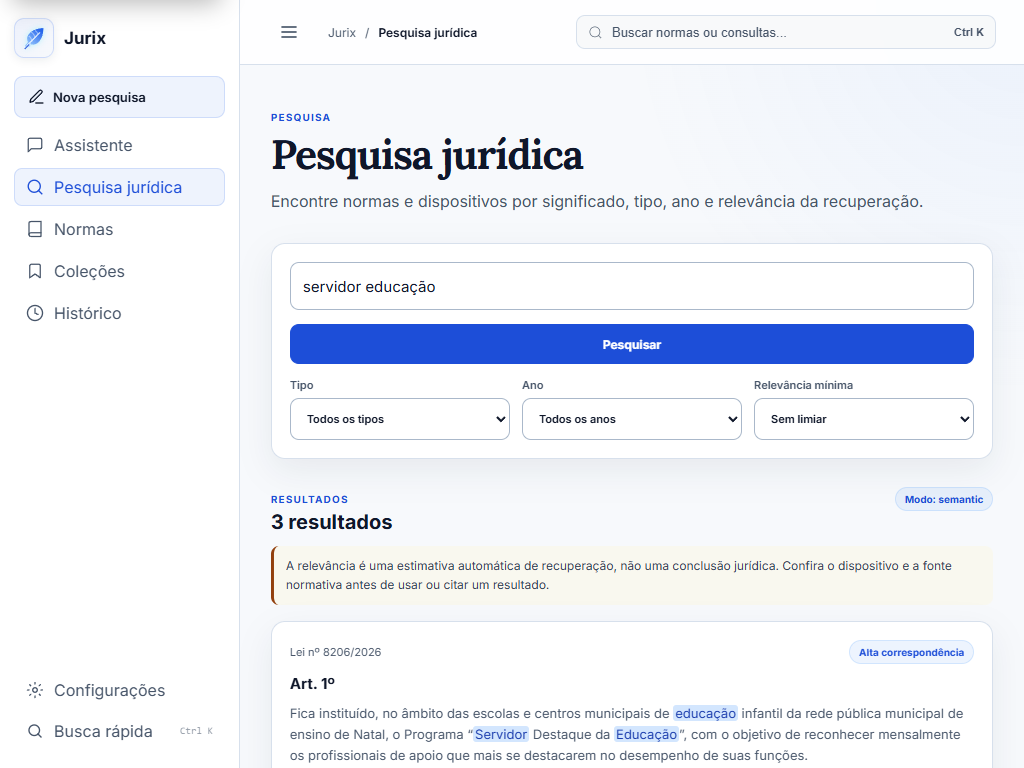
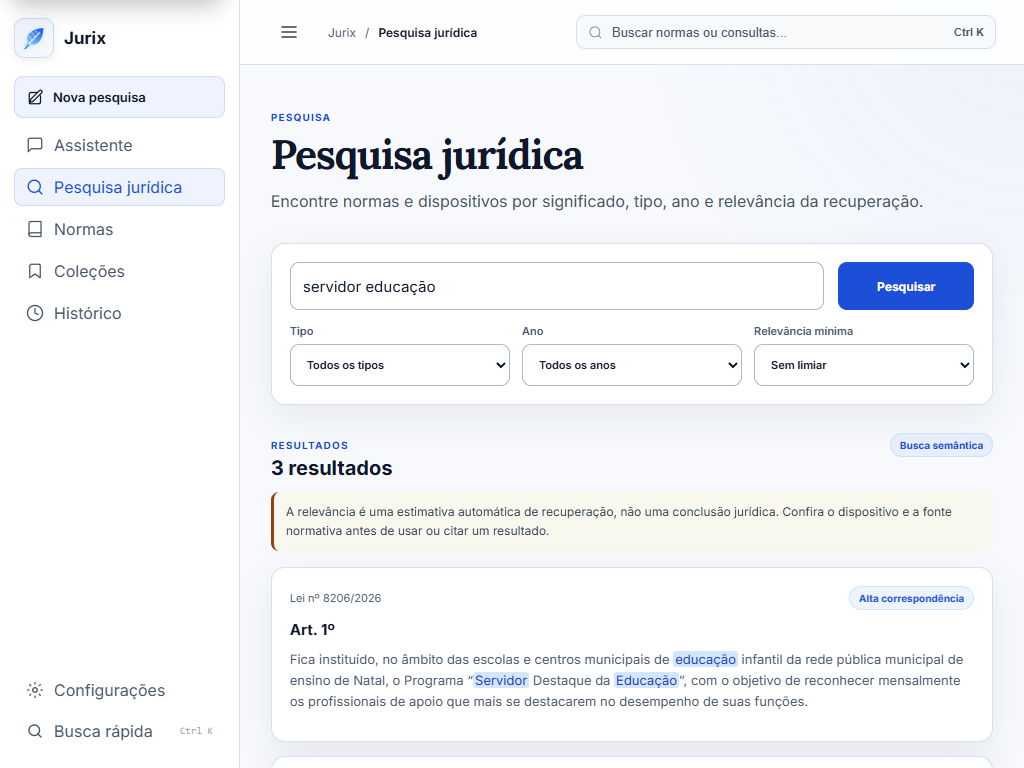
ui(pesquisa): align search flow and keyboard order

Changed region(s): [[0.25, 0.3438, 0.9688, 0.8125], [0.2812, 0.8125, 0.9375, 1.0], [0.8438, 0.5625, 0.9688, 0.5938]]

diff --git a/src/apps/core/static/css/workspace.css b/src/apps/core/static/css/workspace.css
@@ -96,7 +96,10 @@ html[data-sidebar-collapsed="true"] .workspace-nav-item { justify-content: cente
 .workspace-button[aria-disabled="true"] { opacity: .72; cursor: not-allowed; pointer-events: none; }
 .workspace-save-status { color: var(--figma-green); font-size: 12px; }
 .workspace-save-status.is-warning { color: var(--figma-amber-light, #fbbf24); }
-.workspace-search-panel { padding: 18px; display: grid; gap: 14px; margin-bottom: 28px; }
+.workspace-search-panel { grid-template-columns:minmax(0,1fr) auto; padding:18px; display:grid; gap:14px; margin-bottom:28px; }
+.workspace-search-panel .workspace-search-input { grid-column:1; grid-row:1; }
+.workspace-search-panel > .workspace-button { grid-column:2; grid-row:1; min-width:136px; min-height:48px; }
+.workspace-search-panel .workspace-filter-row { grid-column:1 / -1; grid-row:2; }
 .workspace-history-search { display: grid; grid-template-columns: minmax(0,1fr) auto; align-items: end; gap: 12px; max-width: 860px; margin: 0 0 22px; }
 .workspace-history-search .workspace-field { margin: 0; }
 .workspace-history-search input { box-sizing: border-box; width: 100%; min-height: 44px; padding: 0 13px; border: 1px solid var(--figma-border-strong); border-radius: 9px; color: var(--figma-text-white); background: var(--figma-bg-surface); font: inherit; }
@@ -179,6 +182,13 @@ html[data-sidebar-collapsed="true"] .workspace-nav-item { justify-content: cente
 .sr-only { position: absolute; width: 1px; height: 1px; padding: 0; margin: -1px; overflow: hidden; clip: rect(0,0,0,0); white-space: nowrap; border: 0; }
 [data-density="compact"] .workspace-card, [data-density="compact"] .workspace-result-card, [data-density="compact"] .workspace-history-card { padding: 15px; }
 @media (max-width: 900px) { .workspace-shell, html[data-sidebar-collapsed="true"] .workspace-shell { grid-template-columns: 1fr; } .workspace-sidebar { position: fixed; left: 0; top: 0; width: 240px; box-sizing: border-box; transform: translateX(-100%); transition: transform .2s ease; } .workspace-sidebar.is-open { transform: translateX(0); } html[data-sidebar-collapsed="true"] .workspace-sidebar { padding-inline: 14px; } html[data-sidebar-collapsed="true"] .workspace-brand-block { justify-items: stretch; } html[data-sidebar-collapsed="true"] .workspace-brand > span:not(.workspace-logo), html[data-sidebar-collapsed="true"] .workspace-new-action > span:not(:first-child), html[data-sidebar-collapsed="true"] .workspace-nav-item > span:not(:first-child), html[data-sidebar-collapsed="true"] .workspace-nav-item kbd { display: initial; } html[data-sidebar-collapsed="true"] .workspace-new-action, html[data-sidebar-collapsed="true"] .workspace-nav-item { justify-content: flex-start; width: 100%; min-width: 0; margin-inline: 0; padding-inline: 11px; } .workspace-mobile-toggle { display: inline-flex; } .workspace-content { padding-top: 28px; } .workspace-form-grid, .workspace-option-grid, .workspace-filter-row { grid-template-columns: 1fr; } .workspace-field-wide { grid-column: auto; } .workspace-page-header { align-items: flex-start; flex-direction: column; } .workspace-history-card__link { grid-template-columns: 1fr; } .workspace-history-meta { align-items: flex-start; flex-direction: row; } .workspace-top-search { width: auto; flex: 1; } }
+
+@media (max-width:900px) {
+  .workspace-search-panel { grid-template-columns:minmax(0,1fr); }
+  .workspace-search-panel .workspace-search-input { grid-column:1; grid-row:1; }
+  .workspace-search-panel .workspace-filter-row { grid-column:1; grid-row:2; }
+  .workspace-search-panel > .workspace-button { grid-column:1; grid-row:3; min-width:0; width:100%; }
+}
 @media (max-width: 560px) { .workspace-history-search { grid-template-columns: 1fr; } .workspace-history-search button { width: 100%; } }
 @media (max-width: 560px) { .workspace-topbar { padding: 0 14px; gap: 10px; } .workspace-breadcrumb span:first-child, .workspace-top-search kbd { display: none; } .workspace-content { padding-left: 14px; padding-right: 14px; } }
 @media (max-width: 640px) {

diff --git a/src/apps/legislation/templates/legislation/workspace/search.html b/src/apps/legislation/templates/legislation/workspace/search.html
@@ -10,19 +10,19 @@
 </section>
 
 <form class="workspace-search-panel" method="get" role="search" aria-label="Pesquisa jurídica">
-    <label class="workspace-search-input"><span class="sr-only">Consulta</span><input name="q" value="{{ query }}" placeholder="Ex.: zoneamento ou IPTU progressivo"></label>
-    <button class="workspace-button workspace-button-primary" type="submit">Pesquisar</button>
+    <label class="workspace-search-input"><span class="sr-only">Consulta</span><input type="search" name="q" maxlength="200" value="{{ query }}" placeholder="Ex.: zoneamento ou IPTU progressivo"></label>
     <div class="workspace-filter-row">
         <label>Tipo<select name="tipo"><option value="">Todos os tipos</option>{% for item in types %}<option value="{{ item.value }}"{% if norma_type == item.value %} selected{% endif %}>{{ item.label }}</option>{% endfor %}</select></label>
         <label>Ano<select name="ano"><option value="">Todos os anos</option>{% for item in years %}<option value="{{ item }}"{% if year == item %} selected{% endif %}>{{ item }}</option>{% endfor %}</select></label>
         <label>Relevância mínima<select name="similaridade"><option value="0"{% if min_similarity == 0 %} selected{% endif %}>Sem limiar</option><option value="0.5"{% if min_similarity == 0.5 %} selected{% endif %}>50%</option><option value="0.65"{% if min_similarity == 0.65 %} selected{% endif %}>65%</option><option value="0.8"{% if min_similarity == 0.8 %} selected{% endif %}>80%</option></select></label>
     </div>
+    <button class="workspace-button workspace-button-primary" type="submit">Pesquisar</button>
 </form>
 
-{% if search_error %}<div class="workspace-alert">{{ search_error }}</div>{% endif %}
+{% if search_error %}<div class="workspace-alert" role="alert" aria-live="assertive">{{ search_error }}</div>{% endif %}
 
 <section class="workspace-results-section" aria-live="polite">
-    <div class="workspace-section-heading"><div><span class="workspace-eyebrow">Resultados</span><h2>{% if query %}{{ result_count }} resultados{% else %}Comece uma pesquisa{% endif %}</h2></div>{% if query %}<span class="workspace-badge">Modo: {{ search_mode }}</span>{% endif %}</div>
+    <div class="workspace-section-heading"><div><span class="workspace-eyebrow">Resultados</span><h2>{% if query %}{{ result_count }} {% if result_count == 1 %}resultado{% else %}resultados{% endif %}{% else %}Comece uma pesquisa{% endif %}</h2></div>{% if query %}<span class="workspace-badge">{% if search_mode == 'semantic' %}Busca semântica{% elif search_mode == 'lexical' %}Busca textual{% else %}Busca não executada{% endif %}</span>{% endif %}</div>
 
     {% if query %}<p class="workspace-search-caveat" role="note">A relevância é uma estimativa automática de recuperação, não uma conclusão jurídica. Confira o dispositivo e a fonte normativa antes de usar ou citar um resultado.</p>{% endif %}
 

diff --git a/src/apps/legislation/templates/legislation/workspace/base.html b/src/apps/legislation/templates/legislation/workspace/base.html
@@ -12,7 +12,7 @@
     <link rel="preconnect" href="https://fonts.gstatic.com" crossorigin>
     <link href="https://fonts.googleapis.com/css2?family=Inter:wght@400;500;600;700&family=Lora:ital,wght@0,400;0,600;0,700;1,400&family=JetBrains+Mono:wght@400;500&display=swap" rel="stylesheet">
     <link rel="stylesheet" href="{% static 'css/jurix-figma.css' %}?v=20260930-evidence-partial-state1">
-    <link rel="stylesheet" href="{% static 'css/workspace.css' %}?v=20260930-compose-icon1">
+    <link rel="stylesheet" href="{% static 'css/workspace.css' %}?v=20260930-search-flow1">
     <link rel="stylesheet" href="{% static 'css/jurix-components.css' %}">
     {% block extra_css %}{% endblock %}
 </head>

diff --git a/FRONTEND_LOG.md b/FRONTEND_LOG.md
@@ -3107,3 +3107,28 @@ Visual score for this component: hierarchy 9, mobile density 9, accessibility
 9, responsive behavior 9. Next: audit the legal-search results/filter flow for
 keyboard clarity and dense result scanning before returning to the remaining
 norm timeline/tree details.
+
+## Cycle 86 — legal-search form flow and result labels
+
+The `/pesquisa/` audit found that keyboard users reached the submit button
+before the filters, result counts always used the plural, and the retrieval
+badge exposed the internal English value `semantic`. Reordered the form's DOM
+so focus moves from query to type/year/relevance and then submit; desktop keeps
+the query and CTA on one row, while narrow layouts stack query, filters, and
+CTA. Localized retrieval labels, corrected singular result wording, and made
+search errors announce through an assertive alert region.
+
+Captured and inspected the real route in dark and light themes at 1440x900,
+1280x800, 1024x768, 768x1024, and 390x844. All ten captures returned HTTP 200,
+had no horizontal overflow, console errors, or failed requests. The browser
+audit confirmed keyboard order `tipo → ano → similaridade → Pesquisar` after
+the query input at every viewport. The mobile card now uses the available width
+cleanly, with filter controls and CTA clearly separated.
+
+Validation: complete JavaScript suite 133/133; frontend static Python tests
+11/11; Django system check and `git diff --check` passed. No backend/API
+behavior changed.
+
+Visual score for this component: hierarchy 9, keyboard flow 9, mobile layout 9,
+clarity 9. Next: resume the remaining norm timeline/tree and broader cross-route
+interaction audit.
